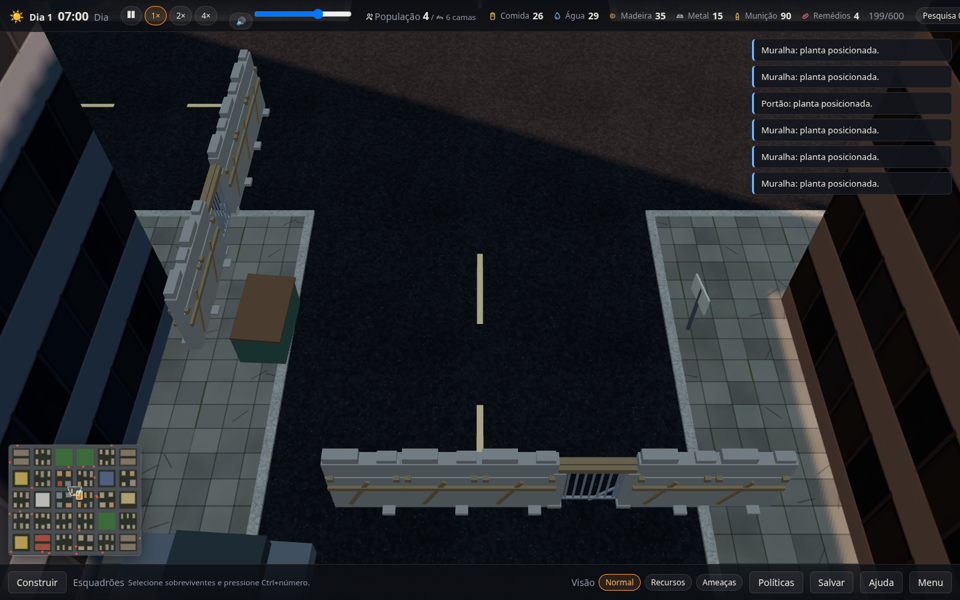
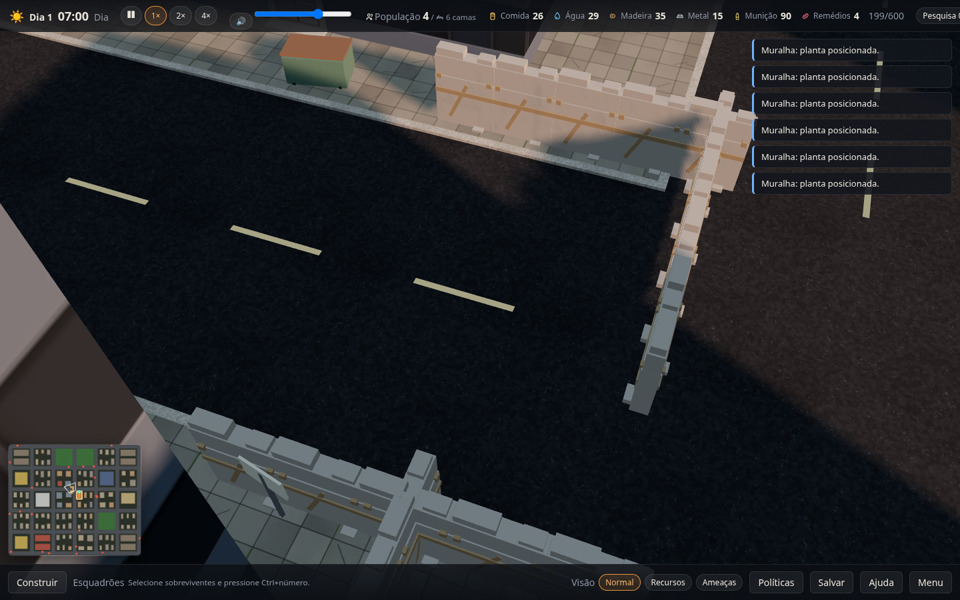
[FIX] renderer: close the wall junctions
Walls still showed a shoulder-wide notch at every L and T, and the pieces read as a row of
separate slabs rather than a wall.

- A slab fills only its own axis, so the crossing run stopped at the cell edge. A cell
  with neighbours on both axes is now drawn twice, once per axis, and the corner closes.
- The construction ghost of a junction is a full cell cube, which is the shape that has
  no notch to show.
- The wall slab is 0.50 m thick instead of 0.42, which stops it reading as a fence panel
  next to a 1.92 m survivor.

Capture of an L and a T in docs/art/structures_walls.png.

diff --git a/packages/renderer/src/GameRenderer.ts b/packages/renderer/src/GameRenderer.ts
@@ -979,6 +979,15 @@ export class GameRenderer {
       const at = (x: number, y: number) => g.inBounds(x, y) && g.structureAt[g.index(x, y)] >= 0;
       return axialYaw(at(s.cx, s.cy - 1), at(s.cx, s.cy + 1), at(s.cx + 1, s.cy), at(s.cx - 1, s.cy));
     };
+    // A junction needs both orientations: the slab only fills its own axis, so an L or T
+    // cell left as one slab shows a shoulder-width notch where the other run stops.
+    const isCorner = (s: { cx: number; cy: number }): boolean => {
+      const g = sim.grid;
+      const at = (x: number, y: number) => g.inBounds(x, y) && g.structureAt[g.index(x, y)] >= 0;
+      const nz = at(s.cx, s.cy - 1) || at(s.cx, s.cy + 1);
+      const nx = at(s.cx + 1, s.cy) || at(s.cx - 1, s.cy);
+      return nz && nx;
+    };
 
     const tmpQ2 = new THREE.Quaternion();
     const up = new THREE.Vector3(0, 1, 0);
@@ -1014,21 +1023,25 @@ export class GameRenderer {
         this.structureIds[n] = e.id;
         continue;
       }
-      if (model.ids.length >= MAX_STRUCTURES) continue;
-      const n = model.ids.length;
-      const yaw = s.kind === "wall" || s.kind === "gate" ? wallYaw(s) : 0;
-      tmpQ2.setFromAxisAngle(up, yaw);
-      tmpM.compose(tmpV.set(cx, 0, cz), tmpQ2, tmpS.set(1, 1, 1));
+      const axial = s.kind === "wall" || s.kind === "gate";
+      const yaw = axial ? wallYaw(s) : 0;
+      const placements = axial && isCorner(s) ? [yaw, yaw + Math.PI / 2] : [yaw];
       const hpFrac = e.health ? e.health.hp / e.health.max : 1;
       tmpC.setHex(0xffffff);
       if (hpFrac < 0.99) tmpC.lerp(new THREE.Color(0x8a2a20), (1 - hpFrac) * 0.8);
       if (e.id === this.selection.structure) tmpC.lerp(new THREE.Color(0xffd34d), 0.4);
-      for (const part of model.parts) {
-        part.setMatrixAt(n, tmpM);
-        part.setColorAt(n, tmpC);
-        part.count = n + 1;
+      for (const angle of placements) {
+        if (model.ids.length >= MAX_STRUCTURES) break;
+        const n = model.ids.length;
+        tmpQ2.setFromAxisAngle(up, angle);
+        tmpM.compose(tmpV.set(cx, 0, cz), tmpQ2, tmpS.set(1, 1, 1));
+        for (const part of model.parts) {
+          part.setMatrixAt(n, tmpM);
+          part.setColorAt(n, tmpC);
+          part.count = n + 1;
+        }
+        model.ids[n] = e.id;
       }
-      model.ids[n] = e.id;
     }
 
     this.structures.count = this.structureIds.length;

diff --git a/tools/blender/structures.py b/tools/blender/structures.py
@@ -108,11 +108,11 @@ def wall():
     reset()
     materials()
     parts = []
-    parts.append(box((2.0, 0.42, 1.9), (0, 0, 0.95), material=CONCRETE))
-    parts.append(box((2.0, 0.36, 0.7), (0, 0, 2.25), material=CONCRETE))
+    parts.append(box((2.0, 0.50, 1.9), (0, 0, 0.95), material=CONCRETE))
+    parts.append(box((2.0, 0.44, 0.7), (0, 0, 2.25), material=CONCRETE))
     # A broken top: two blocks of different heights, so the silhouette is not a slab.
-    parts.append(box((0.9, 0.30, 0.26), (-0.5, 0, 2.73), material=CONCRETE))
-    parts.append(box((0.5, 0.28, 0.16), (0.66, 0, 2.68), material=CONCRETE))
+    parts.append(box((0.9, 0.38, 0.26), (-0.5, 0, 2.73), material=CONCRETE))
+    parts.append(box((0.5, 0.36, 0.16), (0.66, 0, 2.68), material=CONCRETE))
     # A timber band across both faces and a diagonal brace, what makes it read as
     # something people built rather than a poured block.
     for y in (-0.24, 0.24):

diff --git a/docs/ROADMAP.md b/docs/ROADMAP.md
@@ -76,7 +76,7 @@ Two constraints learned the hard way still apply to every new asset:
 - [x] **Walls, gates, towers, gardens and wells are no longer one box.** `tools/blender/structures.py` builds the kit in metres to the simulation's own footprints (a cell is 2 m): a 2 m concrete wall with timber banding and a ruined parapet, a gateway with posts, a lintel and a barred leaf, a 6 m watch tower with railed platform, ladder, sandbags and roof, an 8 m garden of five raised beds with cabbages, fence, barrel and crate, and a stone well with an A-frame, windlass, rope, bucket and canopy. 144 to 1,820 triangles each, 218 KB in all.
 - [x] **The renderer loads one instanced mesh per material per kind** (`loadStructureModels`), keeps the old box drawing until they land and if any file is missing, and picks a structure across every model. Gates read their neighbours in the navigation grid to decide whether the leaf runs north-south, so a gate in a north-south wall is not drawn sideways. Blueprints keep the box as a translucent ghost of the right size.
 - [x] **Metal stays at 0.15 metalness.** Three.js here has no environment map, so the first export rendered every steel bar black; the same reason the towers' roofs and the gate leaf looked dead.
-- [x] **Walls and gates follow the line they are built in.** The model is authored east-west, so a piece in a north-south run was drawn as a row of slabs lying across it, with the timber faces in the wrong plane; the neighbours in the navigation grid now decide the quarter turn (`axialYaw`, unit-tested). The construction ghost wears the same footprint and the same axis, so a wall being raised is a thin slab along its line instead of a blue cube. Captures in `docs/art/structures.png` and `docs/art/structures_walls.png`, and `campaign.spec.ts` asserts the five models load instead of silently falling back to the box.
+- [x] **Walls and gates follow the line they are built in.** The model is authored east-west, so a piece in a north-south run was drawn as a row of slabs lying across it, with the timber faces in the wrong plane; the neighbours in the navigation grid now decide the quarter turn (`axialYaw`, unit-tested). The construction ghost wears the same footprint and the same axis, so a wall being raised is a thin slab along its line instead of a blue cube. A junction needed one more piece of thinking: a slab only fills its own axis, so at an L or T the second run stopped at the cell edge and left a shoulder-wide notch. A cell with neighbours on both axes is now drawn twice, once per axis, which closes the corner; the slab also went from 0.42 to 0.50 m thick, because next to a 1.92 m survivor the old one read as fence panel. Captures in `docs/art/structures.png` and `docs/art/structures_walls.png`, and `campaign.spec.ts` asserts the five models load instead of silently falling back to the box.
 
 ## Next — art
 
